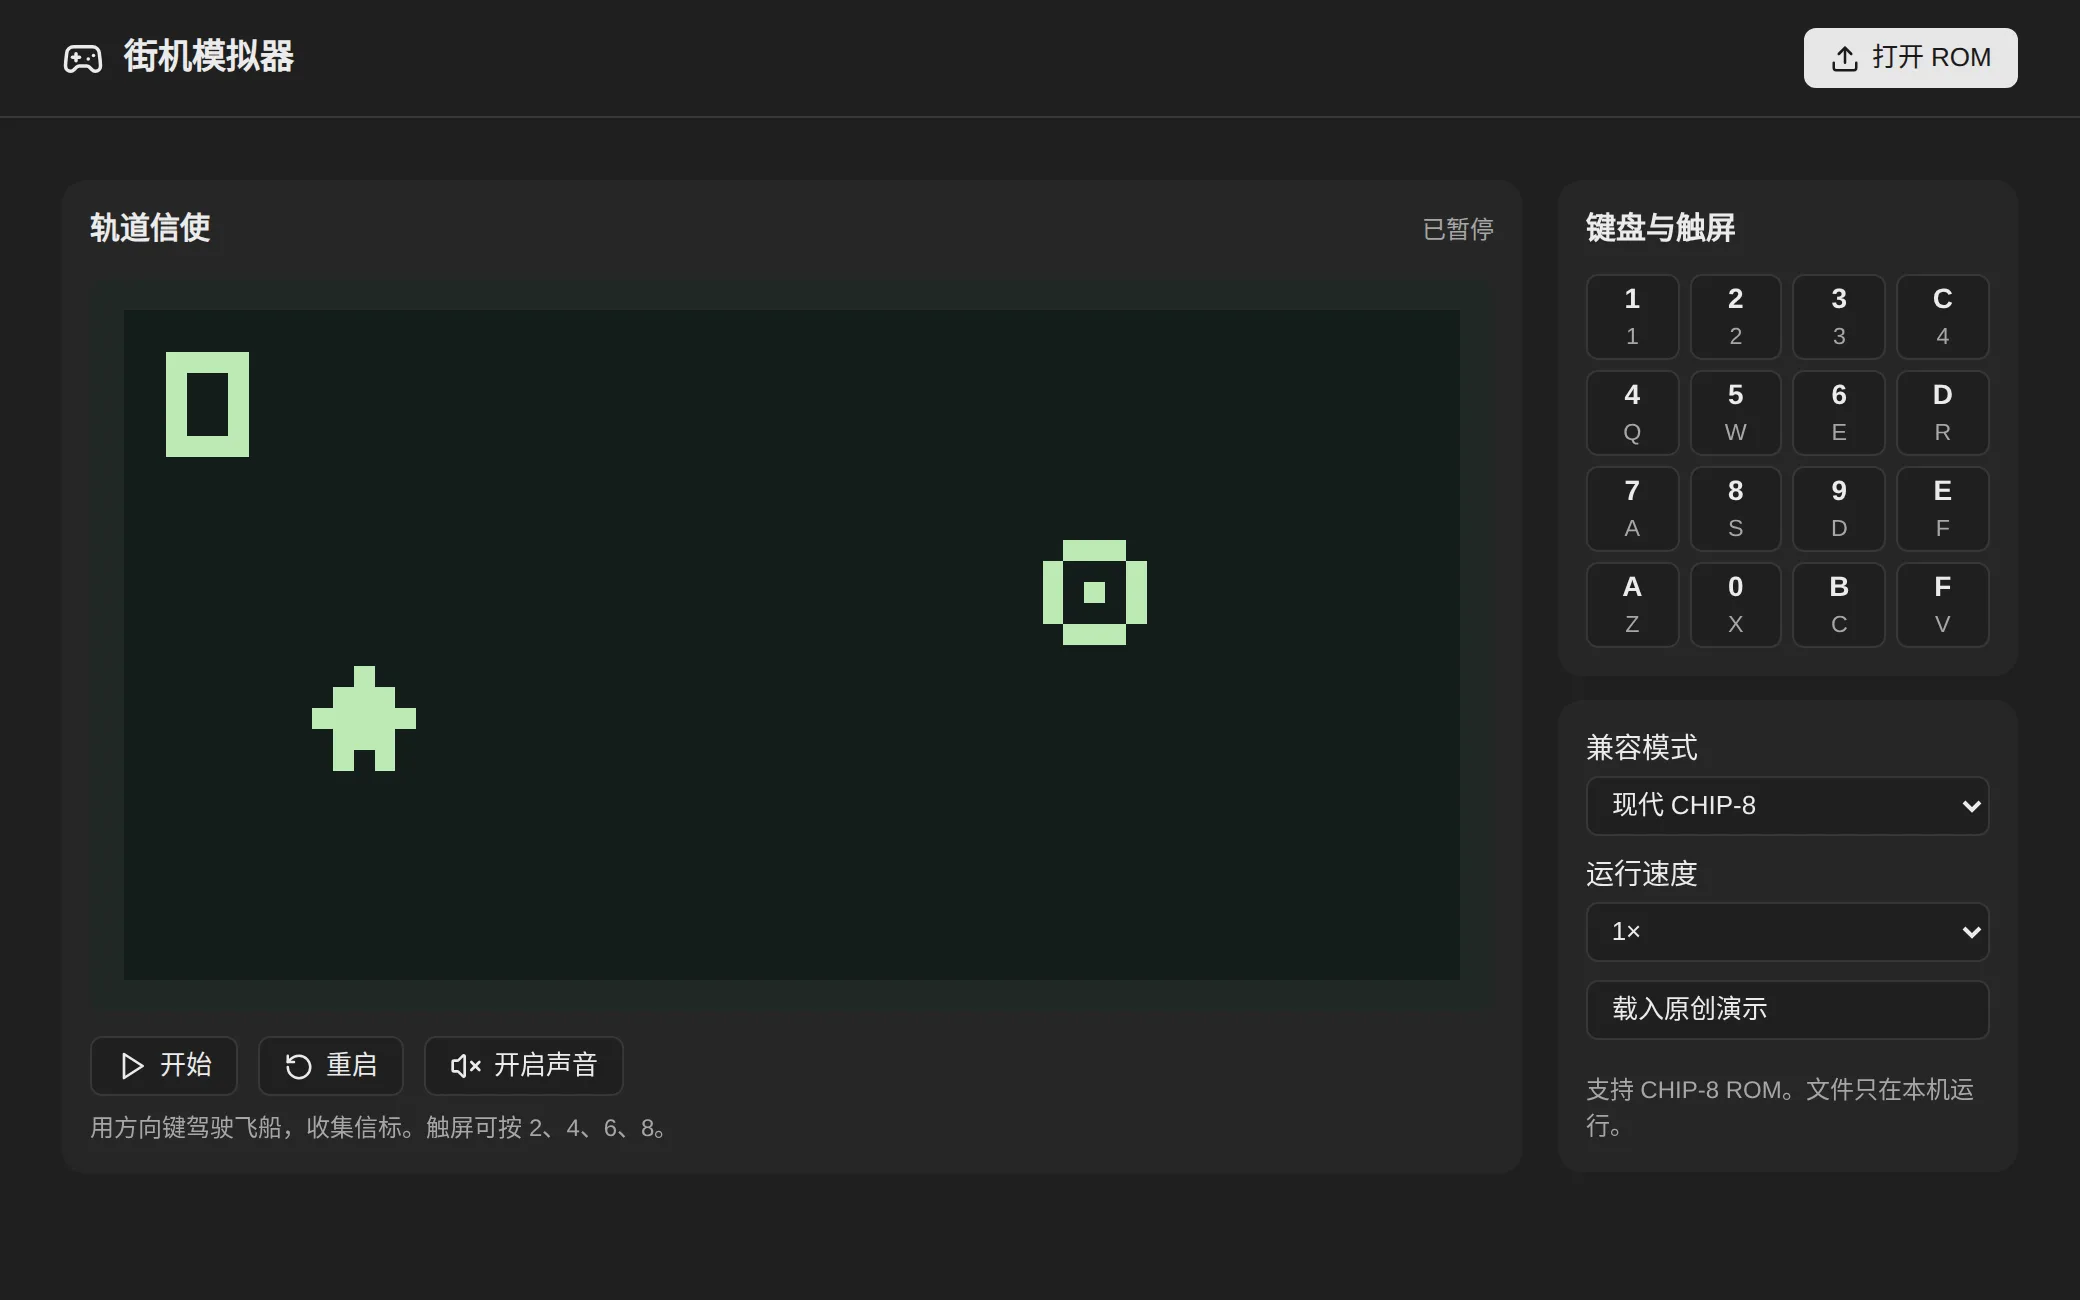
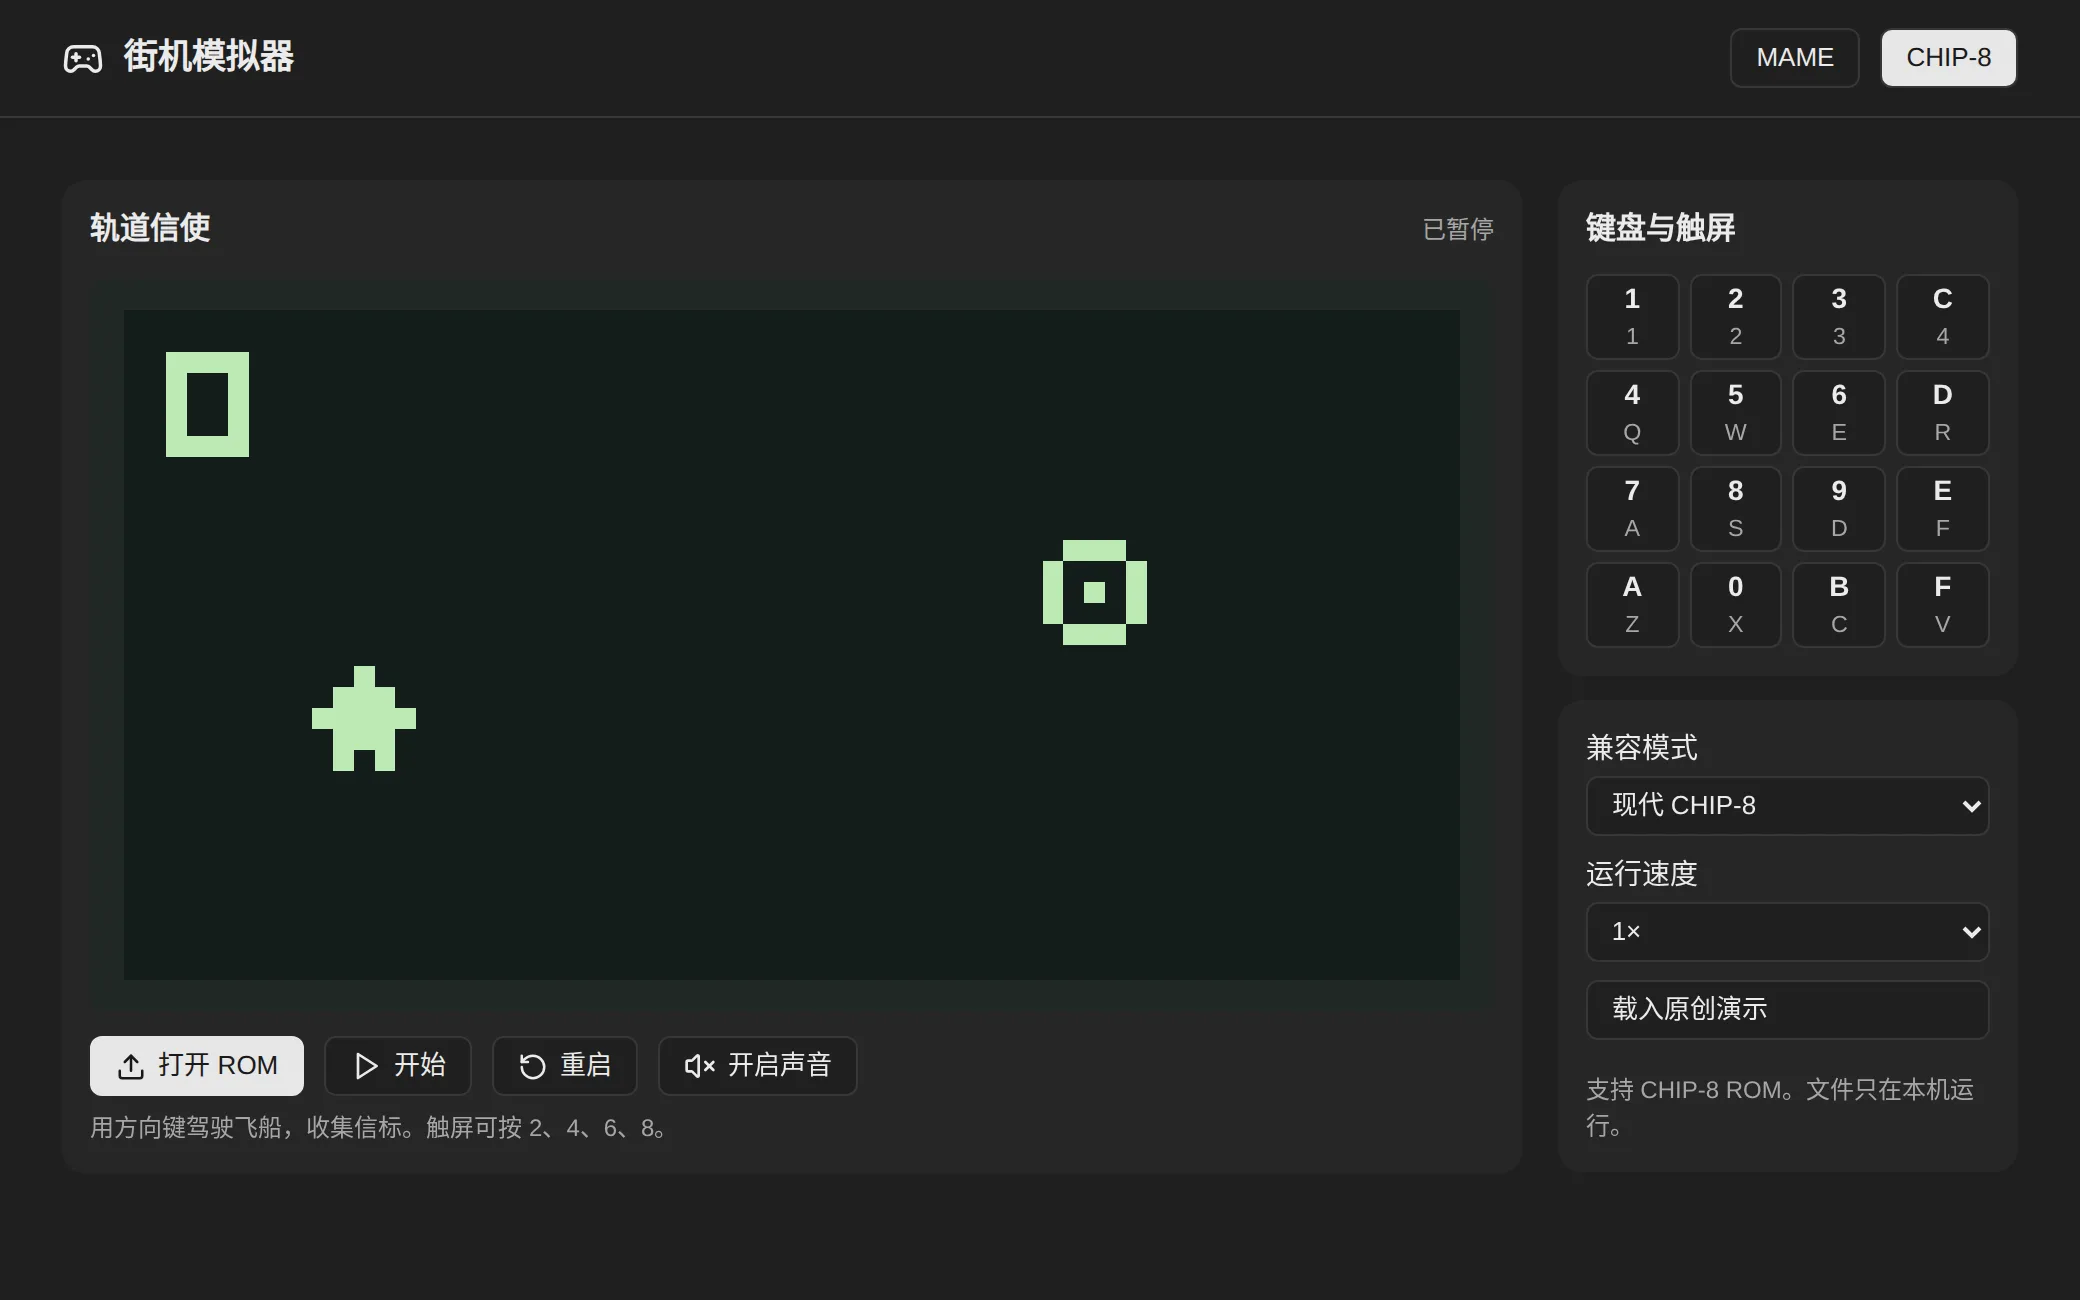
Launch desktop arcade ROMs with native MAME

Changed region(s): [[0.0312, 0.8, 0.3125, 0.8615], [0.8438, 0.0, 0.9688, 0.0923], [0.3438, 0.8, 0.4062, 0.8308]]

diff --git a/templates/src/arcade/mame-panel.tsx b/templates/src/arcade/mame-panel.tsx
@@ -1,0 +1,171 @@
+// Detect the locally installed MAME, verify the selected set, then follow the
+// game process. Files are passed as command arguments on the desktop only.
+import { useEffect, useRef, useState } from "react";
+import { FolderOpen, Gamepad2, Play, Square } from "lucide-react";
+import type { OSJob } from "../_lib/myco";
+import { t as uiText } from "../_lib/i18n";
+import { basename, dirname, has, os, osState, toOSError } from "../_lib/os";
+import { mameArgs, mameVersion } from "./mame";
+
+type Engine = { path: string; version: string };
+type Phase = "setup" | "checking" | "running" | "stopping";
+
+export function MamePanel() {
+  const [ready, setReady] = useState<boolean>();
+  const [engine, setEngine] = useState<Engine>();
+  const [rom, setRom] = useState("");
+  const [phase, setPhase] = useState<Phase>("setup");
+  const [busy, setBusy] = useState(false);
+  const [message, setMessage] = useState("");
+  const [detail, setDetail] = useState("");
+  const operation = useRef(false);
+  const process = useRef<OSJob<{ code: number }>>();
+  const alive = useRef(true);
+
+  useEffect(() => {
+    alive.current = true;
+    if (osState === "ready") {
+      void Promise.all(["fs.pick", "exec.run", "exec.spawn"].map(has))
+        .then(caps => { if (alive.current) setReady(caps.every(Boolean)); });
+    }
+    return () => {
+      alive.current = false;
+      void process.current?.cancel().catch(() => undefined);
+    };
+  }, []);
+
+  function cwd(path: string) {
+    return /[/\\]/.test(path) ? dirname(path) : undefined;
+  }
+
+  async function findEngine(pick: boolean) {
+    if (operation.current) return;
+    operation.current = true;
+    setBusy(true);
+    setMessage(""); setDetail("");
+    try {
+      const candidates = pick
+        ? (await os().fs.pick({ title: uiText("选择 MAME 程序") })).paths.slice(0, 1)
+        : ["mame", "/opt/homebrew/bin/mame", "/usr/local/bin/mame", "/usr/games/mame"];
+      for (const path of candidates) {
+        if (!/^mame(?:\.exe)?$/i.test(basename(path))) {
+          setMessage(uiText("请选择 mame 或 mame.exe 程序。"));
+          return;
+        }
+        const result = await os().exec.run({ argv: [path, "-help"], cwd: cwd(path), timeout_ms: 5000 })
+          .catch(() => undefined);
+        const version = result?.code === 0 ? mameVersion(result.stdout) : undefined;
+        if (version) { setEngine({ path, version }); return; }
+      }
+      setMessage(uiText("未找到可运行的 MAME。安装后可以手动选择程序。"));
+    } catch (error) {
+      if (toOSError(error).code !== "cancelled") setMessage(uiText("无法打开文件选择器。"));
+    } finally {
+      setBusy(false);
+      operation.current = false;
+    }
+  }
+
+  async function chooseROM() {
+    if (operation.current) return;
+    operation.current = true;
+    setBusy(true);
+    setMessage(""); setDetail("");
+    try {
+      const { paths } = await os().fs.pick({ title: uiText("选择 MAME ROM ZIP"), types: ["zip"] });
+      if (!paths[0]) return;
+      if (!mameArgs(paths[0])) { setMessage(uiText("请选择保留 MAME 原始短名的 ZIP 文件。")); return; }
+      setRom(paths[0]);
+    } catch (error) {
+      if (toOSError(error).code !== "cancelled") setMessage(uiText("无法打开文件选择器。"));
+    } finally {
+      setBusy(false);
+      operation.current = false;
+    }
+  }
+
+  async function play() {
+    const args = mameArgs(rom);
+    if (operation.current || !engine || !args) return;
+    operation.current = true;
+    setPhase("checking");
+    setMessage(""); setDetail("");
+    try {
+      const verified = await os().exec.run({ argv: [engine.path, ...args.verify], cwd: cwd(engine.path), timeout_ms: 30000 });
+      if (!alive.current) return;
+      if (verified.code !== 0 || verified.timed_out) {
+        setMessage(uiText("ROM 校验未通过。请核对 MAME 版本，并把依赖的 BIOS 或父集放在同一文件夹里。"));
+        setDetail((verified.stderr + "\n" + verified.stdout).trim().slice(-2800));
+        return;
+      }
+      const job = os().exec.spawn({ argv: [engine.path, ...args.play], cwd: cwd(engine.path) });
+      process.current = job;
+      setPhase("running");
+      let stderr = "", cancelled = false;
+      job.on("stderr", text => { stderr = (stderr + String(text)).slice(-2800); });
+      const result = await job.done.catch(error => {
+        if (toOSError(error).code !== "cancelled") throw error;
+        cancelled = true;
+      });
+      if (result && result.code !== 0) {
+        setMessage(uiText("MAME 已退出，代码 {0}。", result.code));
+        setDetail(stderr.trim());
+      } else if (!cancelled) setMessage(uiText("游戏窗口已关闭。"));
+    } catch (error) {
+      setMessage(uiText("无法启动 MAME。"));
+      setDetail(toOSError(error).message.slice(0, 2800));
+    } finally {
+      process.current = undefined;
+      operation.current = false;
+      setPhase("setup");
+    }
+  }
+
+  async function stop() {
+    if (!process.current) return;
+    setPhase("stopping");
+    try { await process.current.cancel(); }
+    catch (error) {
+      if (process.current) {
+        setPhase("running");
+        setMessage(uiText("无法停止 MAME，请在游戏窗口关闭它。"));
+        setDetail(toOSError(error).message);
+      }
+    }
+  }
+
+  const locked = busy || phase !== "setup";
+  const status = phase === "checking" ? uiText("正在校验 ROM…") : phase === "running" ? uiText("MAME 已启动。切换到游戏窗口开始玩。")
+    : phase === "stopping" ? uiText("正在停止…") : message;
+  return <main className="arc-mame">
+    <section className="arc-mame-panel">
+      <Gamepad2 size={28} aria-hidden="true"/>
+      <h2>{uiText("MAME 街机")}</h2>
+      <p>{uiText("用本机 MAME 打开街机 ROM ZIP，游戏会在独立窗口运行。")}</p>
+      {(osState !== "ready" || ready === false) ? <p role="status">{uiText("MAME 模式需要支持本机程序的 myco 桌面 App。")}</p> :
+        <div className="arc-mame-form">
+          <div>
+            <strong>{engine ? "MAME " + engine.version : uiText("连接 MAME")}</strong>
+            {engine?.path && <p title={engine.path}>{engine.path}</p>}
+            <div className="arc-tools">
+              <button type="button" className="btn" disabled={!ready || locked} onClick={() => void findEngine(false)}>{uiText("查找 MAME")}</button>
+              <button type="button" className="btn" disabled={!ready || locked} onClick={() => void findEngine(true)}>{uiText("选择 MAME 程序")}</button>
+            </div>
+          </div>
+          <div>
+            <strong>{rom ? basename(rom) : uiText("载入 ROM ZIP")}</strong>
+            <div className="arc-tools">
+              <button type="button" className="btn" disabled={!ready || locked} onClick={() => void chooseROM()}><FolderOpen size={15}/>{uiText("选择 MAME ROM ZIP")}</button>
+              <button type="button" className="btn btn-primary" disabled={locked || !rom || !engine} onClick={() => void play()}><Play size={15}/>{uiText("启动游戏")}</button>
+              {(phase === "running" || phase === "stopping") && <button type="button" className="btn" disabled={phase === "stopping"} onClick={() => void stop()}><Square size={14}/>{uiText("停止游戏")}</button>}
+            </div>
+          </div>
+        </div>}
+      {status && <p role="status">{status}</p>}
+      {detail && <pre>{detail}</pre>}
+      <p>{uiText("默认按 5 投币、1 开始、方向键移动，Ctrl 和 Alt 为动作键。")}</p>
+      <div className="arc-mame-links"><a href="https://www.mamedev.org/release.html" target="_blank" rel="noreferrer">{uiText("下载官方 MAME")}</a>
+        <a href="https://www.mamedev.org/roms/" target="_blank" rel="noreferrer">{uiText("MAME 官方试玩 ROM")}</a></div>
+    </section>
+  </main>;
+}

diff --git a/templates/src/arcade/main.tsx b/templates/src/arcade/main.tsx
@@ -6,6 +6,8 @@ import { Gamepad2, Pause, Play, RotateCcw, Upload, Volume2, VolumeX } from "luci
 import { t as uiText } from "../_lib/i18n";
 import { Chip8, height, maxROM, width } from "./chip8";
 import { demoROM } from "./demo";
+import { osState } from "../_lib/os";
+import { MamePanel } from "./mame-panel";
 import "../_lib/sheet.css";
 import "./arcade.css";
 
@@ -21,7 +23,7 @@ function paint(ctx: CanvasRenderingContext2D, core: Chip8) {
   core.dirty = false;
 }
 
-function App() {
+function ChipView() {
   const [cart, setCart] = useState(() => ({ rom: demoROM(), name: "" }));
   const [classic, setClassic] = useState(false);
   const [speed, setSpeed] = useState(720);
@@ -160,19 +162,16 @@ function App() {
   }
 
   const name = cart.name || uiText("轨道信使");
-  return <div className="arc-app">
-    <header className="arc-header">
-      <div><Gamepad2 size={21}/><h1>{uiText("街机模拟器")}</h1></div>
-      <button type="button" className="btn btn-primary" onClick={() => chooser.current?.click()}><Upload size={15}/>{uiText("打开 ROM")}</button>
+  return <>
       <input ref={chooser} hidden type="file" accept=".ch8,.c8,.rom,.bin" onChange={event => {
         void readFile(event.target.files?.[0]); event.target.value = "";
       }}/>
-    </header>
     <main className="arc-layout">
       <section className="arc-cabinet">
         <div className="arc-title"><h2>{name}</h2><span role="status">{running ? uiText("运行中") : uiText("已暂停")}</span></div>
         <div className="arc-screen"><canvas ref={canvas} width={width} height={height} role="img" aria-label={uiText("游戏画面")}/></div>
         <div className="arc-tools">
+          <button type="button" className="btn btn-primary" onClick={() => chooser.current?.click()}><Upload size={15}/>{uiText("打开 ROM")}</button>
           <button type="button" className="btn" onClick={() => setRunning(!running)}>
             {running ? <Pause size={16}/> : <Play size={16}/>} {running ? uiText("暂停") : uiText("开始")}
           </button>
@@ -215,6 +214,21 @@ function App() {
         </div>
       </aside>
     </main>
+  </>;
+}
+
+function App() {
+  const [mode, setMode] = useState<"mame" | "chip">(osState === "ready" ? "mame" : "chip");
+  return <div className="arc-app">
+    <header className="arc-header">
+      <div><Gamepad2 size={21}/><h1>{uiText("街机模拟器")}</h1></div>
+      <div className="arc-modes">
+        <button type="button" className="btn" aria-pressed={mode === "mame"} onClick={() => setMode("mame")}>MAME</button>
+        <button type="button" className="btn" aria-pressed={mode === "chip"} onClick={() => setMode("chip")}>CHIP‑8</button>
+      </div>
+    </header>
+    <div hidden={mode !== "mame"}><MamePanel/></div>
+    {mode === "chip" && <ChipView/>}
   </div>;
 }
 

diff --git a/templates/src/arcade/arcade.css b/templates/src/arcade/arcade.css
@@ -29,3 +29,19 @@
 @media (max-width: 410px) {
   .arc-side { grid-template-columns: minmax(0, 1fr); }
 }
+.arc-modes .btn[aria-pressed="true"] { color: var(--on-accent); background: var(--accent); }
+.arc-mame { max-width: 820px; margin: auto; padding: clamp(12px, 4vw, 36px); }
+.arc-mame-panel { padding: clamp(14px, 4vw, 32px); border-radius: 13px; background: var(--bg2); }
+.arc-mame-panel > svg { margin-bottom: 9px; }
+.arc-mame-panel > h2 { font-size: 22px; }
+.arc-mame-panel > p { margin: 8px 0 0; }
+.arc-mame-form { display: grid; grid-template-columns: repeat(2, minmax(0, 1fr)); gap: 10px; margin: 20px 0; }
+.arc-mame-form > div { min-width: 0; overflow-wrap: anywhere; padding: 12px; border: 1px solid var(--line); border-radius: 9px; background: var(--bg); }
+.arc-mame-form > div > p { margin: 4px 0 0; font-size: 12px; }
+.arc-mame-links { display: flex; flex-wrap: wrap; gap: 12px; margin-top: 14px; }
+.arc-mame-links a { color: var(--fg); }
+.arc-mame-panel pre { max-height: 170px; overflow: auto; white-space: pre-wrap; overflow-wrap: anywhere; padding: 8px; background: var(--bg); border-radius: 7px; font-size: 12px; }
+.arc-app button:disabled { opacity: .48; }
+@media (max-width: 580px) {
+  .arc-mame-form { grid-template-columns: minmax(0, 1fr); }
+}

diff --git a/templates/src/arcade/mame.ts b/templates/src/arcade/mame.ts
@@ -1,0 +1,27 @@
+// Construct native MAME commands from files selected through the OS picker.
+// MAME resolves ROM sets by driver name and looks for parent/BIOS ZIPs locally.
+export function mameROM(path: string) {
+  const separator = Math.max(path.lastIndexOf("/"), path.lastIndexOf("\\"));
+  const filename = path.slice(separator + 1);
+  const shortName = /^([a-z0-9_]+)\.zip$/.exec(filename)?.[1];
+  if (separator < 0 || !shortName || /[;\x00-\x1f]/.test(path)) return;
+  const rootLength = /^[a-z]:[/\\]/i.test(path) ? 3 : 1;
+  return { filename, shortName, directory: path.slice(0, Math.max(separator, rootLength)) };
+}
+
+export function mameArgs(path: string) {
+  const rom = mameROM(path);
+  if (!rom) return;
+  const base = [rom.shortName, "-rompath", rom.directory];
+  return {
+    filename: rom.filename,
+    verify: [...base, "-verifyroms"],
+    play: [...base, "-window", "-skip_gameinfo"],
+  };
+}
+
+export function mameVersion(stdout: string) {
+  return stdout.split(/\r?\n/).slice(0, 4)
+    .map(line => /\bMAME(?:\s+version)?\s+v?(0\.\d{2,4})\b/i.exec(line)?.[1])
+    .find(Boolean);
+}

diff --git a/templates/src/arcade/public/agent.md b/templates/src/arcade/public/agent.md
@@ -1,7 +1,7 @@
 # Arcade Emulator
 
-This page runs a local CHIP-8 interpreter with the original Orbit Courier demonstration. The user can load a CHIP-8 program from their own device. The application has no page records or agent actions. ROM bytes are neither stored in the Hub nor sent to the agent.
+In the desktop App, the MAME mode detects an installed MAME or lets the user select its executable. The user opens a local ZIP whose filename matches the MAME short name (for example `snowbros.zip`). The app verifies the set against the installed MAME before opening a separate native game window. Put any required parent, BIOS and CHD files in the same ROM directory, following MAME's directory conventions. Close the game or use Stop in the app. MAME itself and arcade ROMs are obtained separately.
 
-Supported: standard 64 × 32 CHIP-8 with modern or COSMAC VIP-style opcode behavior. Opening a ROM or changing compatibility starts a fresh machine. SUPER-CHIP, XO-CHIP, MAME and FBNeo archives are outside this version's scope.
+CHIP-8 mode runs a local 64 × 32 interpreter, with the original Orbit Courier demo. It supports modern or COSMAC VIP-style opcode behavior. Opening a ROM or changing compatibility starts a fresh machine. SUPER-CHIP and XO-CHIP are outside the CHIP-8 mode's scope.
 
-References: Tobias V. I. Langhoff’s CHIP-8 guide for instruction behavior, the Timendus test suite for interoperability tests, and EmulatorJS for the separate FBNeo/MAME architecture.
+Neither mode uploads ROM data or uses page records or agent actions. References: MAME's command-line documentation, Tobias V. I. Langhoff's CHIP-8 guide, and the Timendus test suite.
